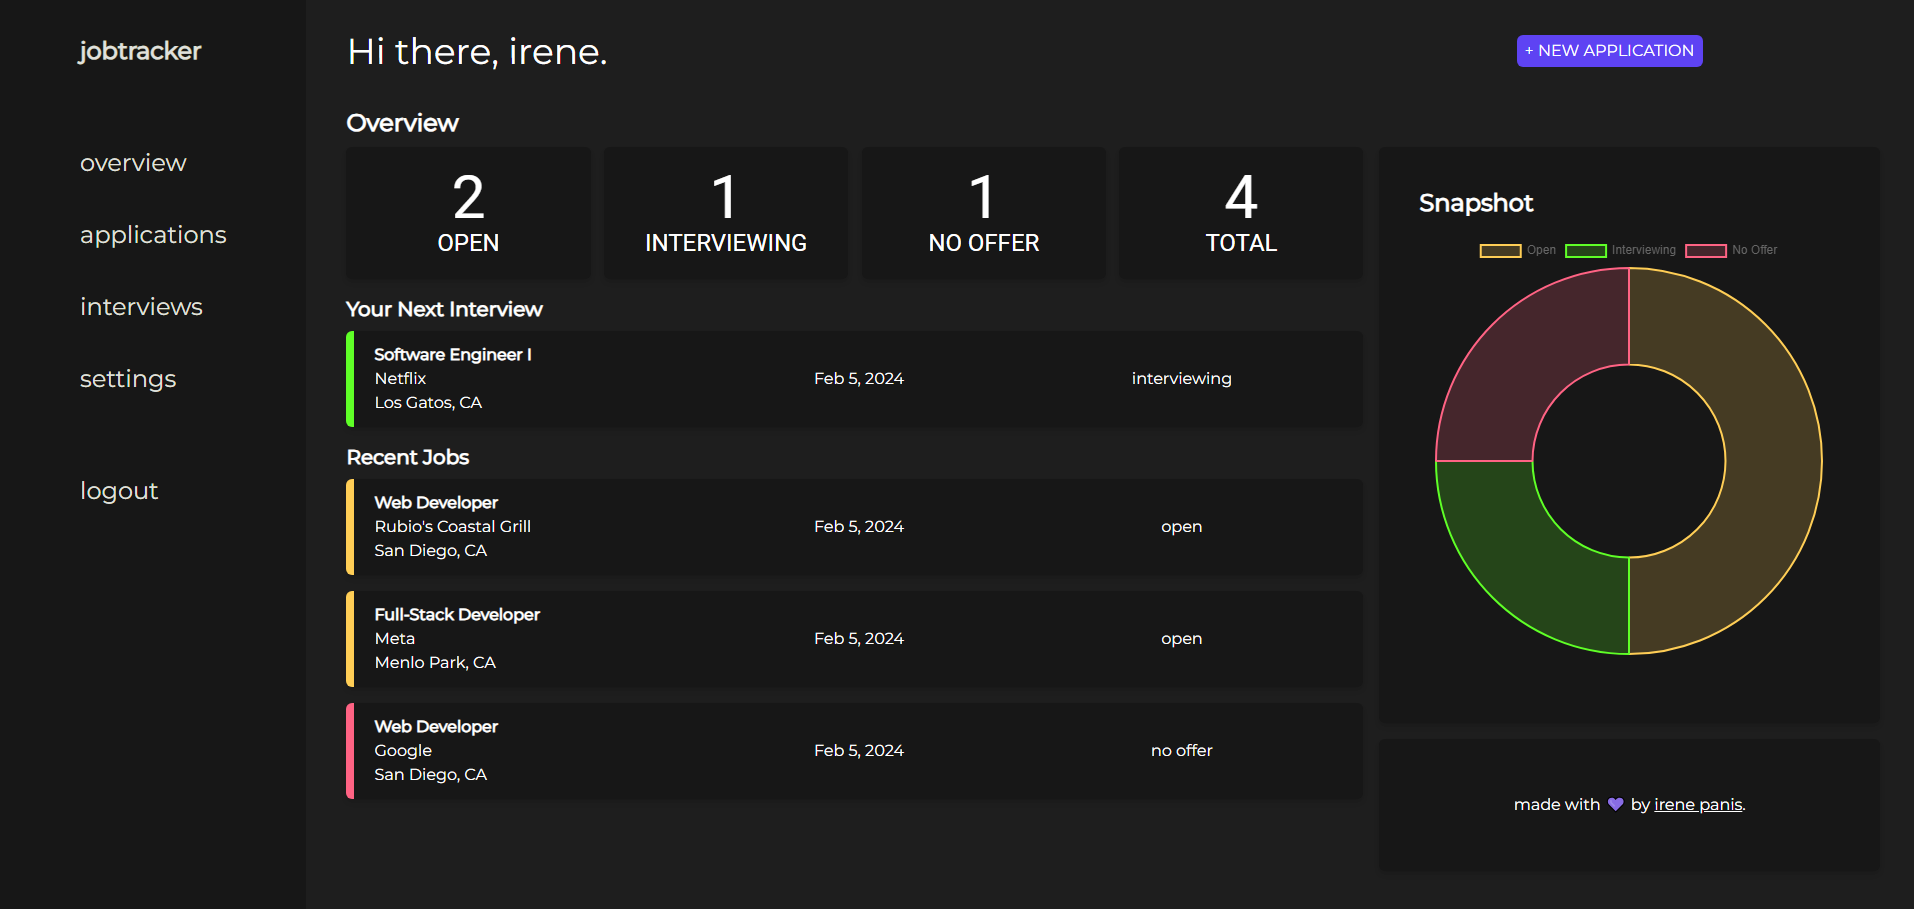
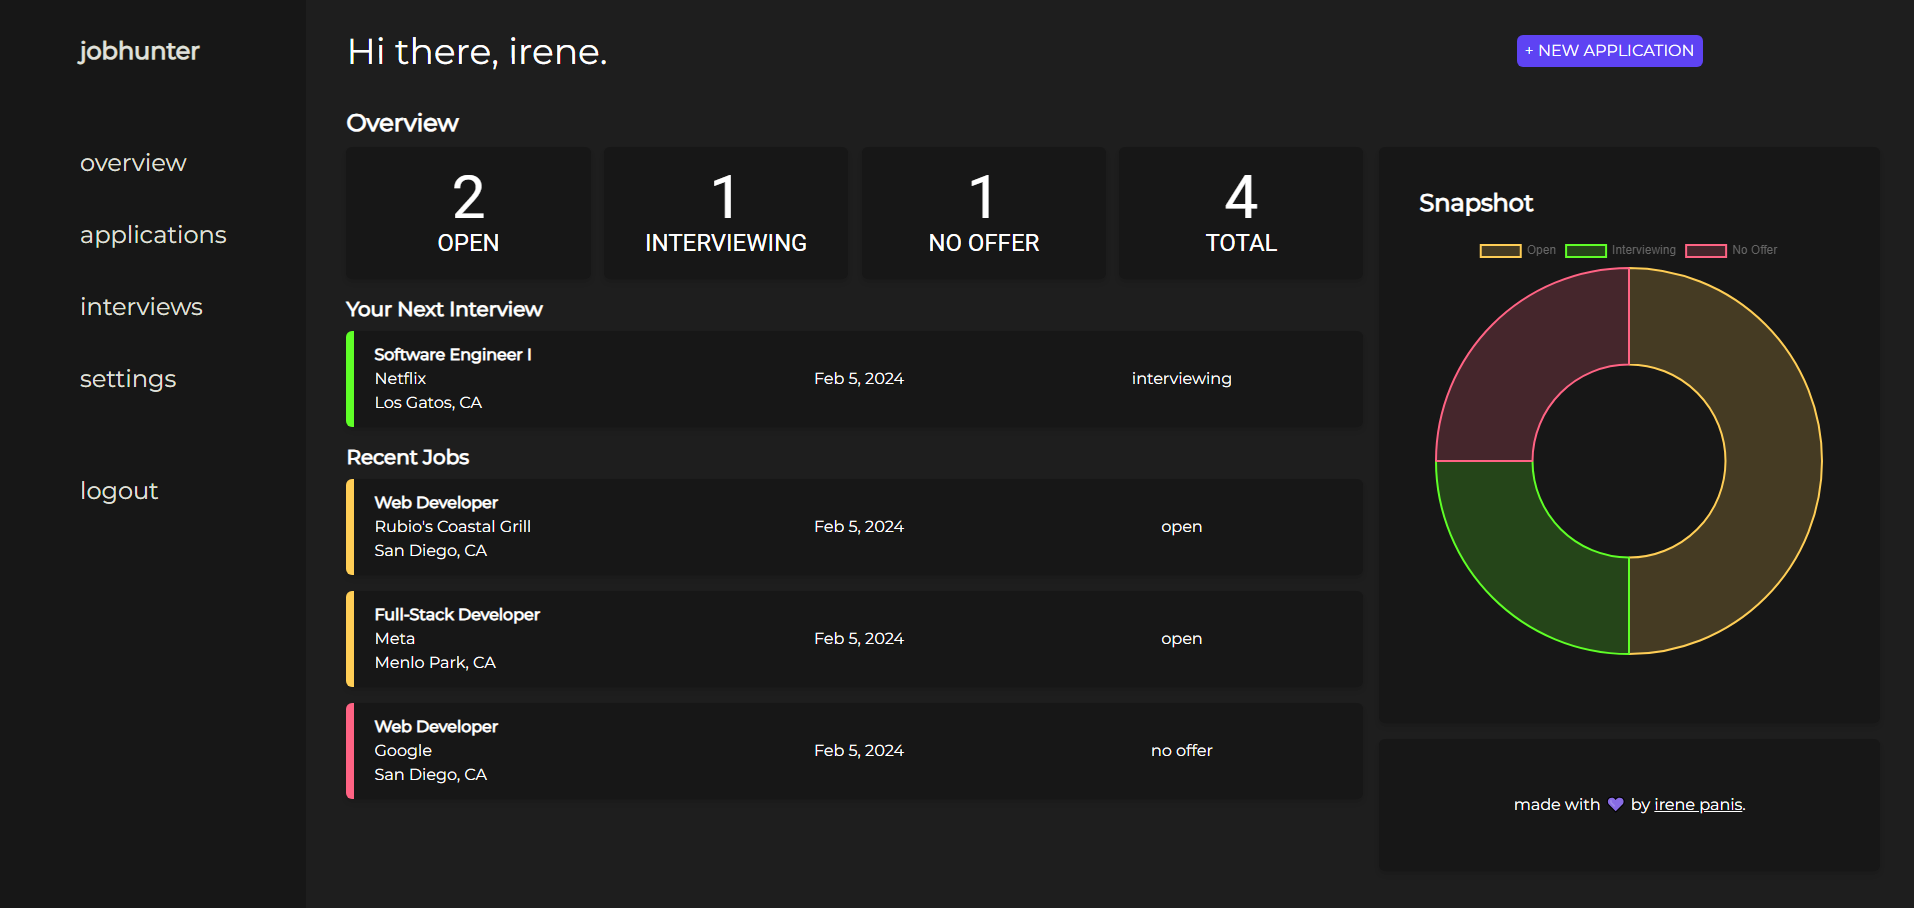
update README.md

diff --git a/README.md b/README.md
@@ -14,4 +14,22 @@ Listing an application as 'interviewing' allows the user to record an interview 
 
 User information, such as display name, email, and password may be changed in **Settings**.
 
-![A screenshot of the Jobhunter dashboard.](image.png)
+![A screenshot of the Jobhunter dashboard.](public/image.png)
+
+## Technologies
+![image](https://img.shields.io/badge/JavaScript-323330?style=for-the-badge&logo=javascript&logoColor=F7DF1E)
+![image](https://img.shields.io/badge/Node%20js-339933?style=for-the-badge&logo=nodedotjs&logoColor=white)
+![image](https://img.shields.io/badge/Express%20js-000000?style=for-the-badge&logo=express&logoColor=white)
+![image](https://img.shields.io/badge/MongoDB-4EA94B?style=for-the-badge&logo=mongodb&logoColor=white)
+![image](https://img.shields.io/badge/React-20232A?style=for-the-badge&logo=react&logoColor=61DAFB)
+![image](https://img.shields.io/badge/React_Router-CA4245?style=for-the-badge&logo=react-router&logoColor=white)
+![image](https://img.shields.io/badge/Tailwind_CSS-38B2AC?style=for-the-badge&logo=tailwind-css&logoColor=white)
+![image](https://img.shields.io/badge/Vite-B73BFE?style=for-the-badge&logo=vite&logoColor=FFD62E)
+![image](https://img.shields.io/badge/npm-CB3837?style=for-the-badge&logo=npm&logoColor=white)
+![image](https://img.shields.io/badge/JWT-000000?style=for-the-badge&logo=JSON%20web%20tokens&logoColor=white)
+
+[source](https://github.com/alexandresanlim/Badges4-README.md-Profile?tab=readme-ov-file#how-to-use)
+
+## About Me
+Hi! I'm Irene. :) I'm a recent graduate of The Coding Boot Camp @ UCSD where I learned to build full-stack web applications using the MERN stack. Right now I'm building cool stuff to put on my portfolio and master technologies old and new.
+
